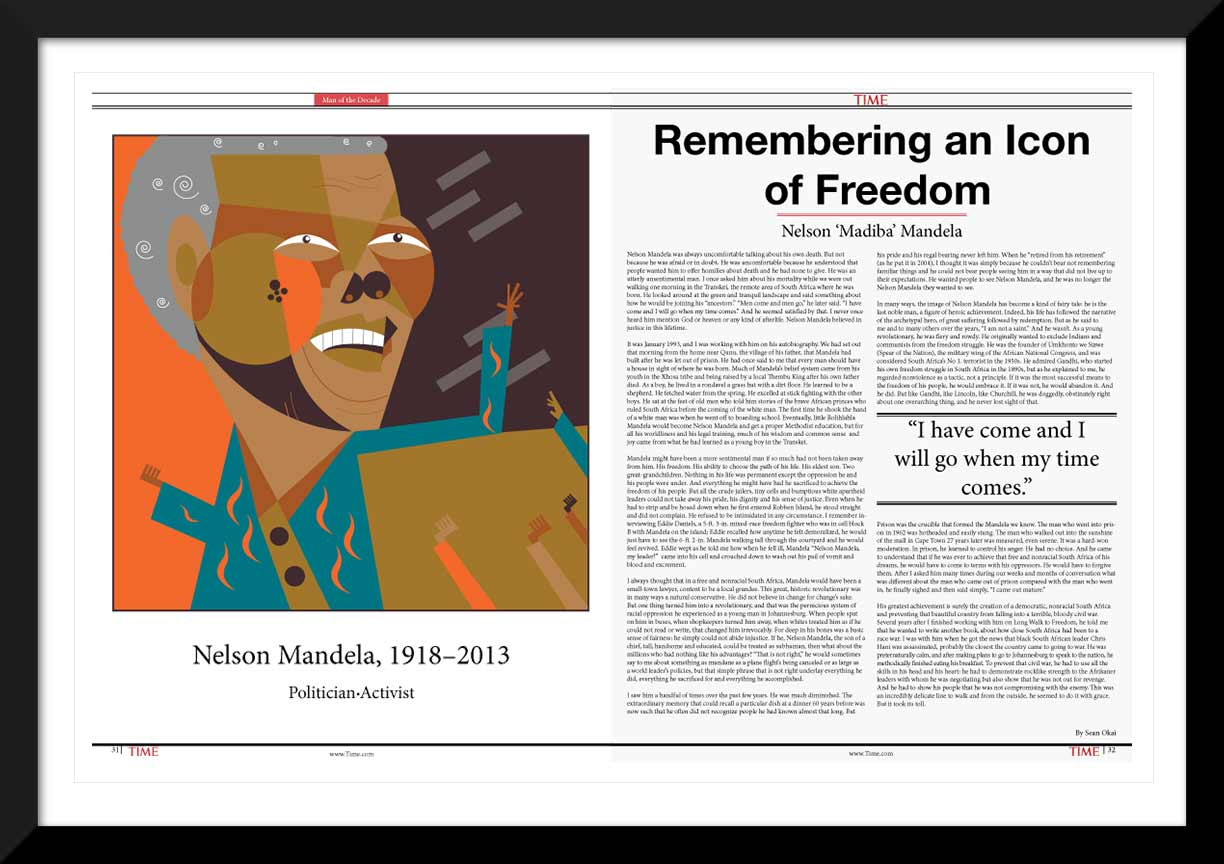
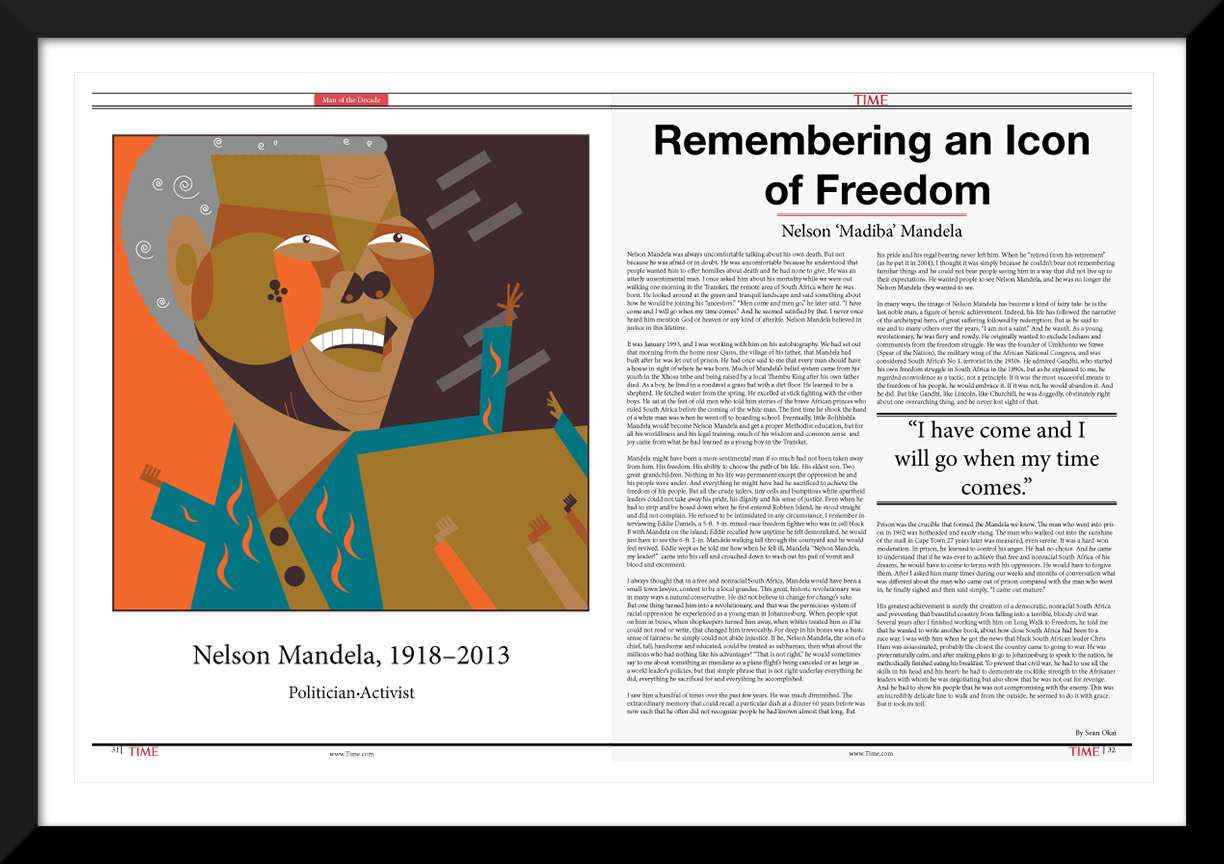
fix: mandella frame padding

diff --git a/works/piece-2.html b/works/piece-2.html
@@ -56,7 +56,7 @@ mastheadClass: masthead-mandela
 					
 					</div>
 !-->
-					<div class="gutter unit unit-xs-1 unit-s-1 unit-m-1 unit-l-1">
+					<div class="gutter unit unit-xs-1 unit-s-1 unit-m-1 unit-l-1 man-space">
 
 					<img class="img-flex" src="{{site.baseurl}}/images/mandella/man-4.jpg" alt="">
 					

diff --git a/_includes/css/main.css b/_includes/css/main.css
@@ -211,6 +211,15 @@ header {
 
 }
 
+.masthead-broadcast {
+	background: url("/images/arsenal/ars-bg.jpg") no-repeat / cover;
+	padding: 1em;
+}
+
+.man-space{
+	padding-bottom: 2rem;
+}
+
 /*.back-image {
 
 	background:	

diff --git a/works/piece-3.html b/works/piece-3.html
@@ -2,7 +2,7 @@
 layout: portfolio-pieces
 title: Broadcast Derby Package
 meta: Broadcast package featuring two rival teams from the english premier league
-
+mastheadClass: masthead-broadcast
 ---
 
 <head>
